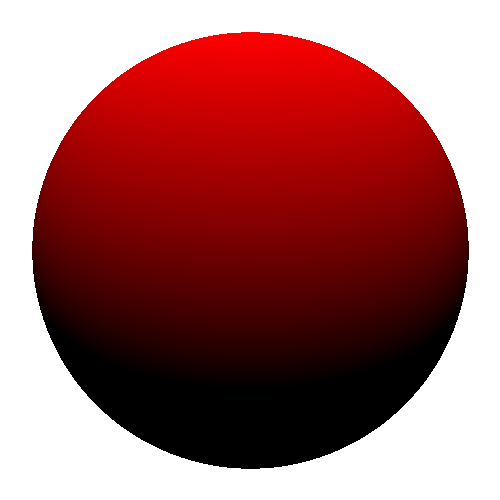
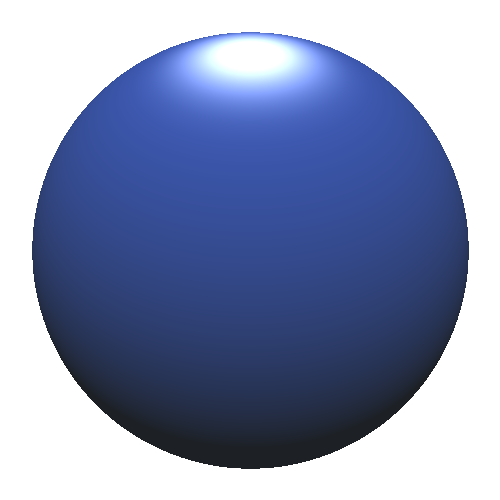
Basics of the Phong shading model

diff --git a/src/github.com/vincentwoo/tracer/tracer.go b/src/github.com/vincentwoo/tracer/tracer.go
@@ -2,12 +2,12 @@ package main
 
 import (
 	// "fmt"
+	"github.com/vincentwoo/geometry"
 	"image"
 	"image/color"
 	"image/png"
 	"io"
-	// "math"
-	"github.com/vincentwoo/geometry"
+	"math"
 	"os"
 )
 
@@ -22,8 +22,8 @@ func main() {
 	png.Encode(writer, img)
 }
 
-func renderImage(width, height int) *image.RGBA {
-	img := image.NewRGBA(image.Rect(0, 0, width, height))
+func renderImage(width, height int) *image.RGBA64 {
+	img := image.NewRGBA64(image.Rect(0, 0, width, height))
 
 	eye := geometry.Vector{-1, 0, 0}
 	dir := geometry.Vector{1, 0, 0}
@@ -49,15 +49,42 @@ func renderImage(width, height int) *image.RGBA {
 }
 
 func trace(ray geometry.Ray) color.Color {
-
-	geo := geometry.Sphere{geometry.Vector{0, 0, 0}, 0.4, color.RGBA{255, 0, 0, 255}}
-	light := geometry.DirectionalLight{geometry.Vector{-0.5, -1, 0}.Normalize(), color.RGBA{255, 255, 255, 255}, 1}
+	material := geometry.Material{
+		Ambient:  geometry.Vector{29, 33, 38}.Divide(255),
+		Diffuse:  geometry.Vector{34, 60, 150}.Divide(255),
+		Specular: geometry.Vector{1, 1, 1},
+	}
+	geo := geometry.Sphere{
+		Origin:   geometry.Vector{0, 0, 0},
+		Radius:   0.4,
+		Material: material,
+	}
+	light := geometry.DirectionalLight{
+		Direction: geometry.Vector{-1, -1, 0}.Normalize(),
+		Color:     geometry.Vector{1, 1, 1},
+		Strength:  1,
+	}
 
 	if intersects, _, normal := geo.Intersects(ray); intersects {
+		pixelColor := geo.Material.Ambient
+
 		if f := normal.DotProduct(light.Direction); f > 0 {
-			return color.RGBA{uint8(f * 255), 0, 0, 255}
+			pixelColor = pixelColor.Add(
+				light.Color.Multiply(f).MultiplyV(geo.Material.Diffuse))
 		}
-		return color.RGBA{0, 0, 0, 255}
+
+		reflectedV := light.Direction.Subtract(
+			normal.Multiply(2 * light.Direction.DotProduct(normal)))
+
+		reflected := reflectedV.DotProduct(light.Direction.Multiply(-1))
+
+		if reflected > 0 {
+			specular := math.Pow(reflected, 10)
+			pixelColor = pixelColor.Add(
+				light.Color.Multiply(specular).MultiplyV(geo.Material.Specular))
+		}
+
+		return pixelColor.Color()
 	}
-	return color.RGBA{0, 0, 0, 0}
+	return color.Transparent
 }

diff --git a/src/github.com/vincentwoo/geometry/sphere.go b/src/github.com/vincentwoo/geometry/sphere.go
@@ -1,14 +1,11 @@
 package geometry
 
-import (
-	"image/color"
-	"math"
-)
+import "math"
 
 type Sphere struct {
 	Origin Vector
 	Radius float64
-	Color  color.Color
+	Material
 }
 
 func (sphere Sphere) Intersects(ray Ray) (intersects bool, intersection, normal Vector) {
@@ -20,20 +17,17 @@ func (sphere Sphere) Intersects(ray Ray) (intersects bool, intersection, normal 
 	discriminant := b*b - 4*c
 
 	if discriminant <= 0 {
-		intersects = false
-		return
+		return false, intersection, normal
 	}
 
 	t := (-b - math.Sqrt(discriminant)) / 2
 
 	if t <= 0 {
-		intersects = false
-		return
+		return false, intersection, normal
 	}
 
-	intersects = true
 	intersection = ray.Origin.Add(ray.Direction.Multiply(t))
 	normal = intersection.Subtract(sphere.Origin).Divide(sphere.Radius)
 
-	return
+	return true, intersection, normal
 }

diff --git a/src/github.com/vincentwoo/geometry/vector.go b/src/github.com/vincentwoo/geometry/vector.go
@@ -2,11 +2,23 @@ package geometry
 
 import (
 	"fmt"
+	"image/color"
 	"math"
 )
 
 type Vector struct {
 	X, Y, Z float64
+}
+
+// Conversion methods
+
+func (v Vector) Color() color.Color {
+	return color.RGBA64{
+		uint16(math.Min(v.X*0xffff, 0xffff)),
+		uint16(math.Min(v.Y*0xffff, 0xffff)),
+		uint16(math.Min(v.Z*0xffff, 0xffff)),
+		0xffff,
+	}
 }
 
 // No-arg methods
@@ -35,6 +47,10 @@ func (v1 Vector) Subtract(v2 Vector) Vector {
 
 func (v1 Vector) DotProduct(v2 Vector) float64 {
 	return v1.X*v2.X + v1.Y*v2.Y + v1.Z*v2.Z
+}
+
+func (v1 Vector) MultiplyV(v2 Vector) Vector {
+	return Vector{v1.X * v2.X, v1.Y * v2.Y, v1.Z * v2.Z}
 }
 
 // Takes a scalar

diff --git a/src/github.com/vincentwoo/geometry/directional-light.go b/src/github.com/vincentwoo/geometry/directional-light.go
@@ -1,9 +1,6 @@
 package geometry
 
-import "image/color"
-
 type DirectionalLight struct {
-	Direction Vector
-	Color     color.Color
-	Strength  float64
+	Direction, Color Vector
+	Strength         float64
 }

diff --git a/src/github.com/vincentwoo/geometry/material.go b/src/github.com/vincentwoo/geometry/material.go
@@ -1,0 +1,5 @@
+package geometry
+
+type Material struct {
+	Ambient, Diffuse, Specular Vector
+}
